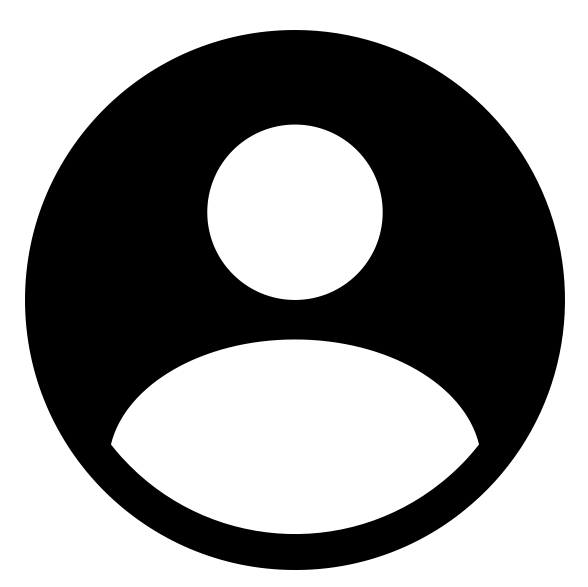
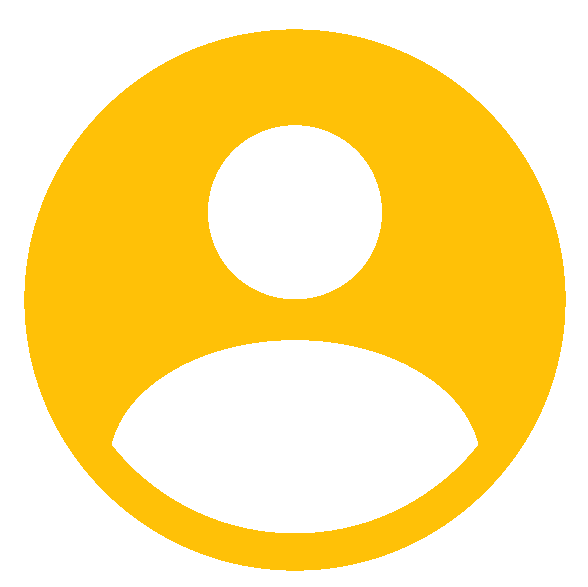
refont visual

diff --git a/pur_beurre_project/catalogue/templates/catalogue/base.html b/pur_beurre_project/catalogue/templates/catalogue/base.html
@@ -26,7 +26,7 @@
 <!-- Navigation-->
 <nav class="navbar navbar-expand-lg navbar-light fixed-top" id="mainNav">
     <div class="container">
-        <a class="navbar-brand js-scroll-trigger" href="/"><img height="50" width="50" alt="logo"
+        <a class="navbar-brand js-scroll-trigger text-white font-weight-bold" href="/"><img height="50" width="50" alt="logo"
                                                                 src="{% static 'catalogue/assets/img/pur_beurre_ico.png' %}"
                                                                 class="logo-navbar"/>Pur beurre</a>
         <button class="navbar-toggler navbar-toggler-right" type="button" data-toggle="collapse"
@@ -53,7 +53,7 @@
                                                                                                         src="{% static 'catalogue/assets/img/carrot.png' %}"></a>
                     </li>
                     <li class="nav-item">
-                        <a class="nav-link js-scroll-trigger" href="#"><img width="40"
+                        <a class="nav-link js-scroll-trigger" href="{% url 'account:logout' %}"><img width="40"
                                                                                                         height="40"
                                                                                                         src="{% static 'catalogue/assets/img/disconnection.png' %}"></a>
                     </li>

diff --git a/pur_beurre_project/catalogue/static/catalogue/css/styles.css b/pur_beurre_project/catalogue/static/catalogue/css/styles.css
@@ -2702,25 +2702,25 @@ fieldset:disabled a.btn {
 }
 
 .btn-outline-secondary {
-  color: #6c757d;
-  border-color: #6c757d;
+  color: #ffc107;
+  border-color: #ffc107;
 }
 .btn-outline-secondary:hover {
-  color: #fff;
-  background-color: #6c757d;
-  border-color: #6c757d;
+  color: #ffc107;
+  background-color: #b5af9a;
+  border-color: #ffc107;
 }
 .btn-outline-secondary:focus, .btn-outline-secondary.focus {
   box-shadow: 0 0 0 0.2rem rgba(108, 117, 125, 0.5);
 }
 .btn-outline-secondary.disabled, .btn-outline-secondary:disabled {
-  color: #6c757d;
+  color: #ffc107;
   background-color: transparent;
 }
 .btn-outline-secondary:not(:disabled):not(.disabled):active, .btn-outline-secondary:not(:disabled):not(.disabled).active, .show > .btn-outline-secondary.dropdown-toggle {
   color: #fff;
-  background-color: #6c757d;
-  border-color: #6c757d;
+  background-color: #b5af9a;
+  border-color: #ffc107;
 }
 .btn-outline-secondary:not(:disabled):not(.disabled):active:focus, .btn-outline-secondary:not(:disabled):not(.disabled).active:focus, .show > .btn-outline-secondary.dropdown-toggle:focus {
   box-shadow: 0 0 0 0.2rem rgba(108, 117, 125, 0.5);
@@ -3150,7 +3150,7 @@ input[type=button].btn-block {
 .dropdown-item:hover, .dropdown-item:focus {
   color: #16181b;
   text-decoration: none;
-  background-color: #f8f9fa;
+  background-color: #ffd70f;
 }
 .dropdown-item.active, .dropdown-item:active {
   color: #fff;

diff --git a/pur_beurre_project/account/templates/registration/logout.html b/pur_beurre_project/account/templates/registration/logout.html
@@ -1,10 +1,17 @@
-<!DOCTYPE html>
-<html lang="en">
-<head>
-    <meta charset="UTF-8">
-    <title>Title</title>
-</head>
-<body>
+{% extends "catalogue/base.html" %}
 
-</body>
-</html>
+{% load static %}
+{% load crispy_forms_tags %}
+
+{% block content %}
+<header class="masthead">
+    <div class="container h-100">
+        <div class="row h-100 align-items-center justify-content-center text-center">
+            <div class="col-lg-10 align-self-end">
+                <h4 class="text-uppercase text-white font-weight-bold">Vous avez été déconnecté. </h4>
+                <hr class="divider my-4"/>
+            </div>
+        </div>
+    </div>
+</header>
+{% endblock %}

diff --git a/pur_beurre_project/account/templates/account/register.html b/pur_beurre_project/account/templates/account/register.html
@@ -17,7 +17,7 @@
                     {{ form|crispy }}
                     <button type="submit" class="btn btn-primary btn-xl js-scroll-trigger">Inscription</button>
                 </form>
-            </div>
+                <hr class="divider my-4"/>
         </div>
     </div>
 </header>

diff --git a/pur_beurre_project/pur_beurre_project/settings.py b/pur_beurre_project/pur_beurre_project/settings.py
@@ -29,6 +29,7 @@ ALLOWED_HOSTS = ['127.0.0.1']
 # Application definition
 
 INSTALLED_APPS = [
+    'account.apps.AccountConfig',
     'catalogue.apps.CatalogueConfig',
     'django.contrib.admin',
     'django.contrib.auth',
@@ -38,7 +39,7 @@ INSTALLED_APPS = [
     'django.contrib.staticfiles',
     'debug_toolbar',
     'crispy_forms',
-    'account.apps.AccountConfig',
+
 ]
 
 MIDDLEWARE = [
@@ -125,7 +126,7 @@ USE_TZ = True
 
 STATIC_URL = '/static/'
 
-CRISPY_TEMPLATE_PACK="bootstrap4"
+CRISPY_TEMPLATE_PACK = "bootstrap4"
 
 LOGIN_REDIRECT_URL = "/"
 LOGOUT_REDIRECT_URL = "/"

diff --git a/pur_beurre_project/catalogue/views.py b/pur_beurre_project/catalogue/views.py
@@ -1,3 +1,4 @@
+from django.contrib.auth.decorators import login_required
 from django.shortcuts import render
 from django.contrib.auth import login, authenticate
 from django.contrib.auth.forms import UserCreationForm
@@ -6,10 +7,10 @@ from django.contrib.auth.forms import UserCreationForm
 def index(request):
     return render(request, 'catalogue/index.html')
 
-
+@login_required
 def my_page(request):
     return render(request, 'catalogue/my_page.html')
 
-
+@login_required
 def my_products(request):
     return render(request, 'catalogue/my_products.html')

diff --git a/pur_beurre_project/account/views.py b/pur_beurre_project/account/views.py
@@ -9,11 +9,10 @@ def register(request):
         form = RegisterForm(request.POST)
         if form.is_valid():
             form.save()
-            return redirect("/")
+            return redirect('/compte/connection/login')
     else:
         form = RegisterForm()
     context = {"form": form}
     return render(request, "account/register.html", context)
 
-def login(request):
-    return render(request, 'registration/login.html')
+
